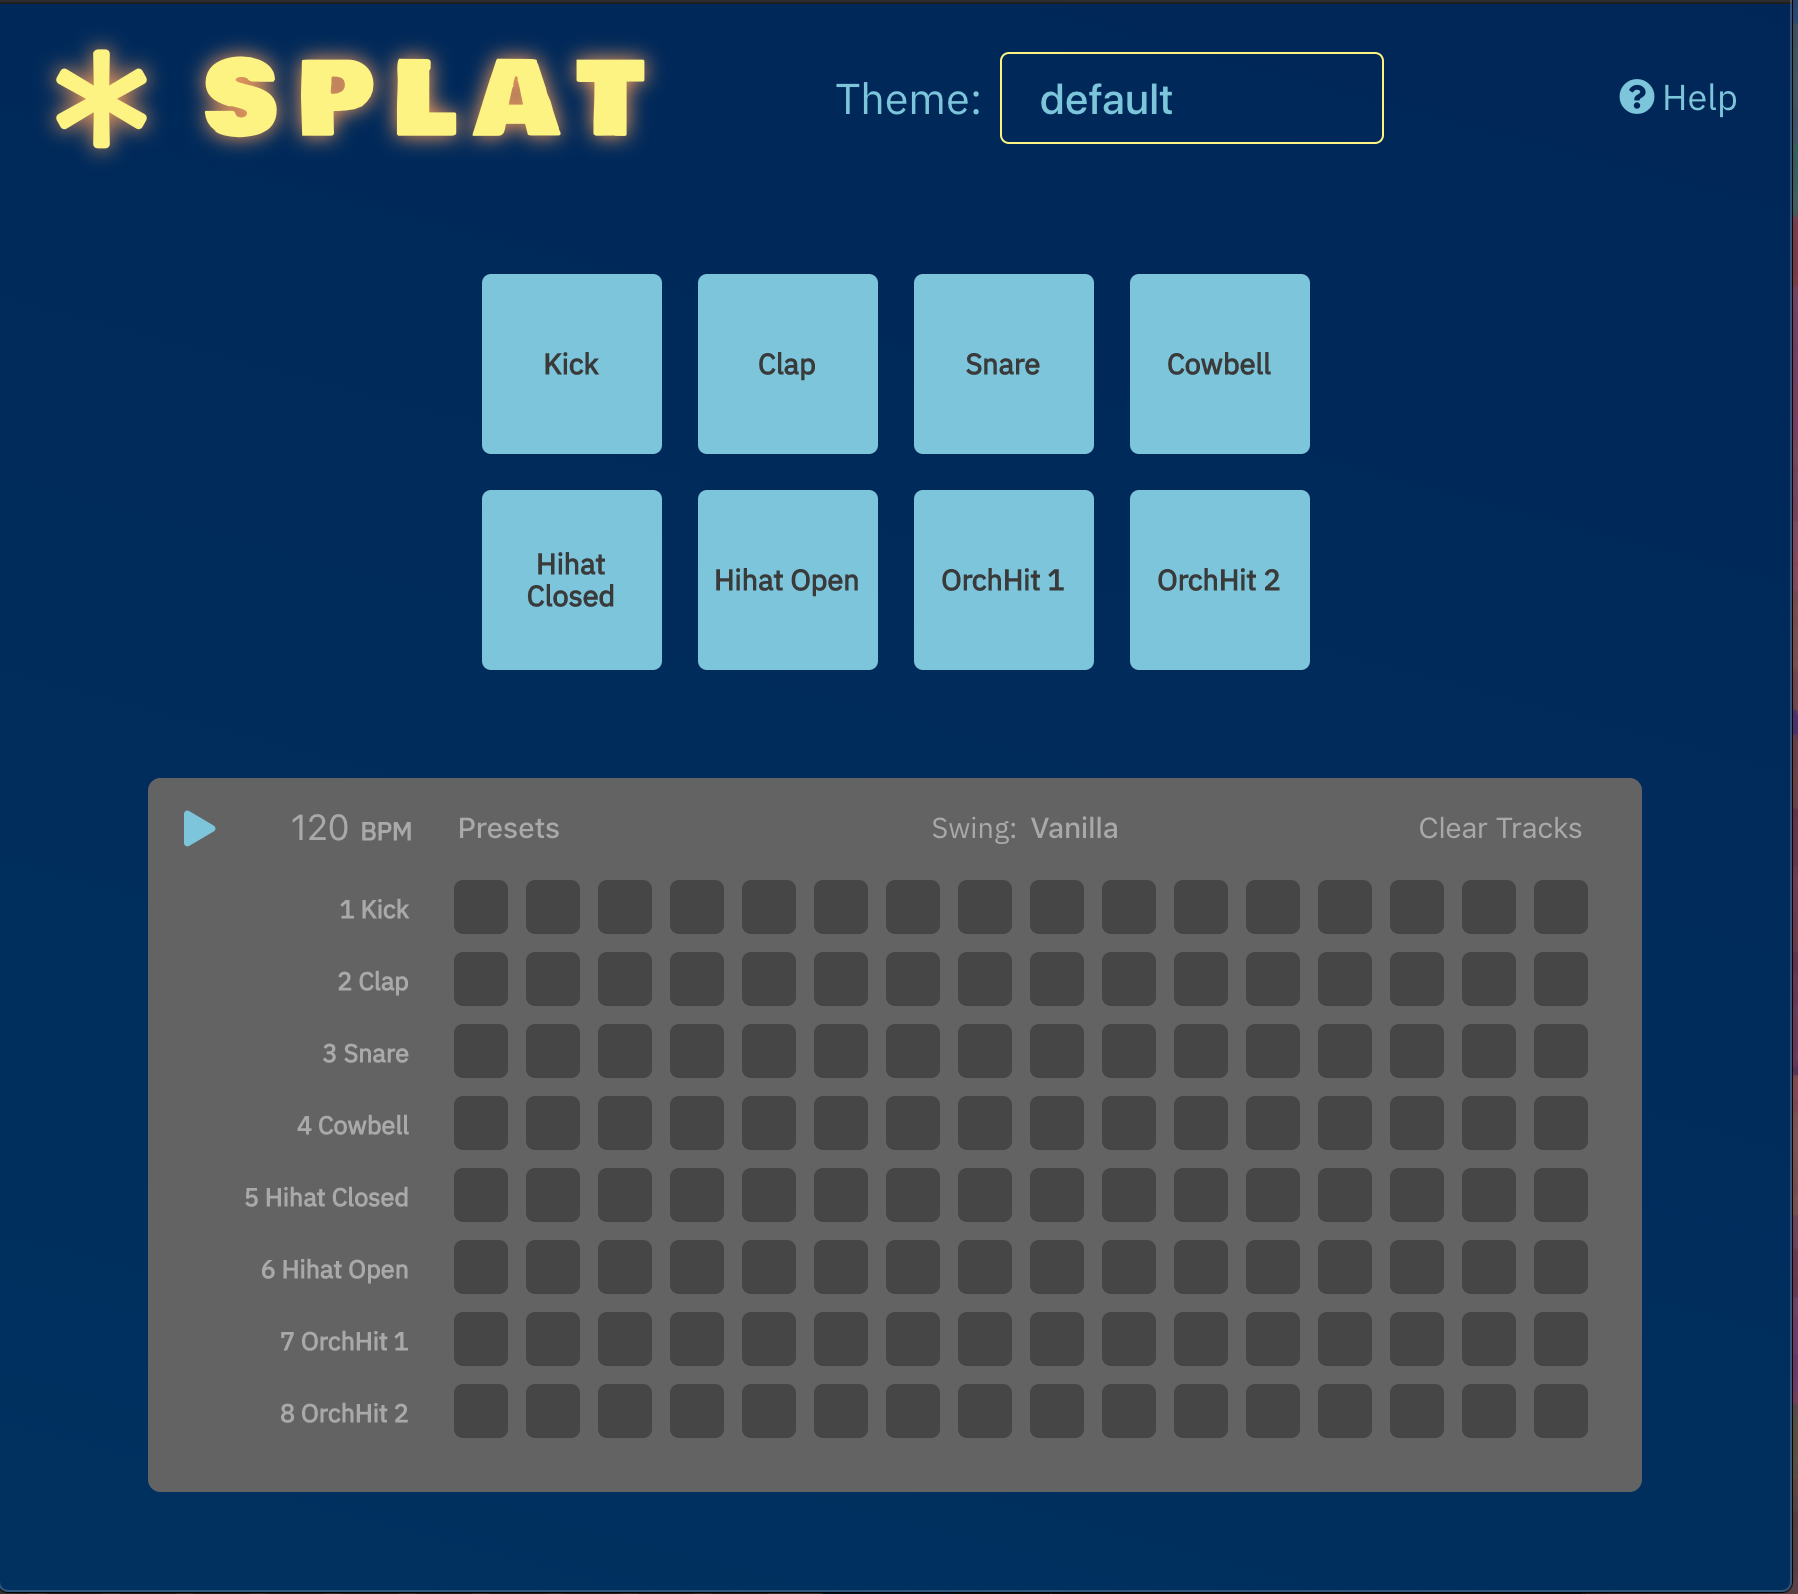
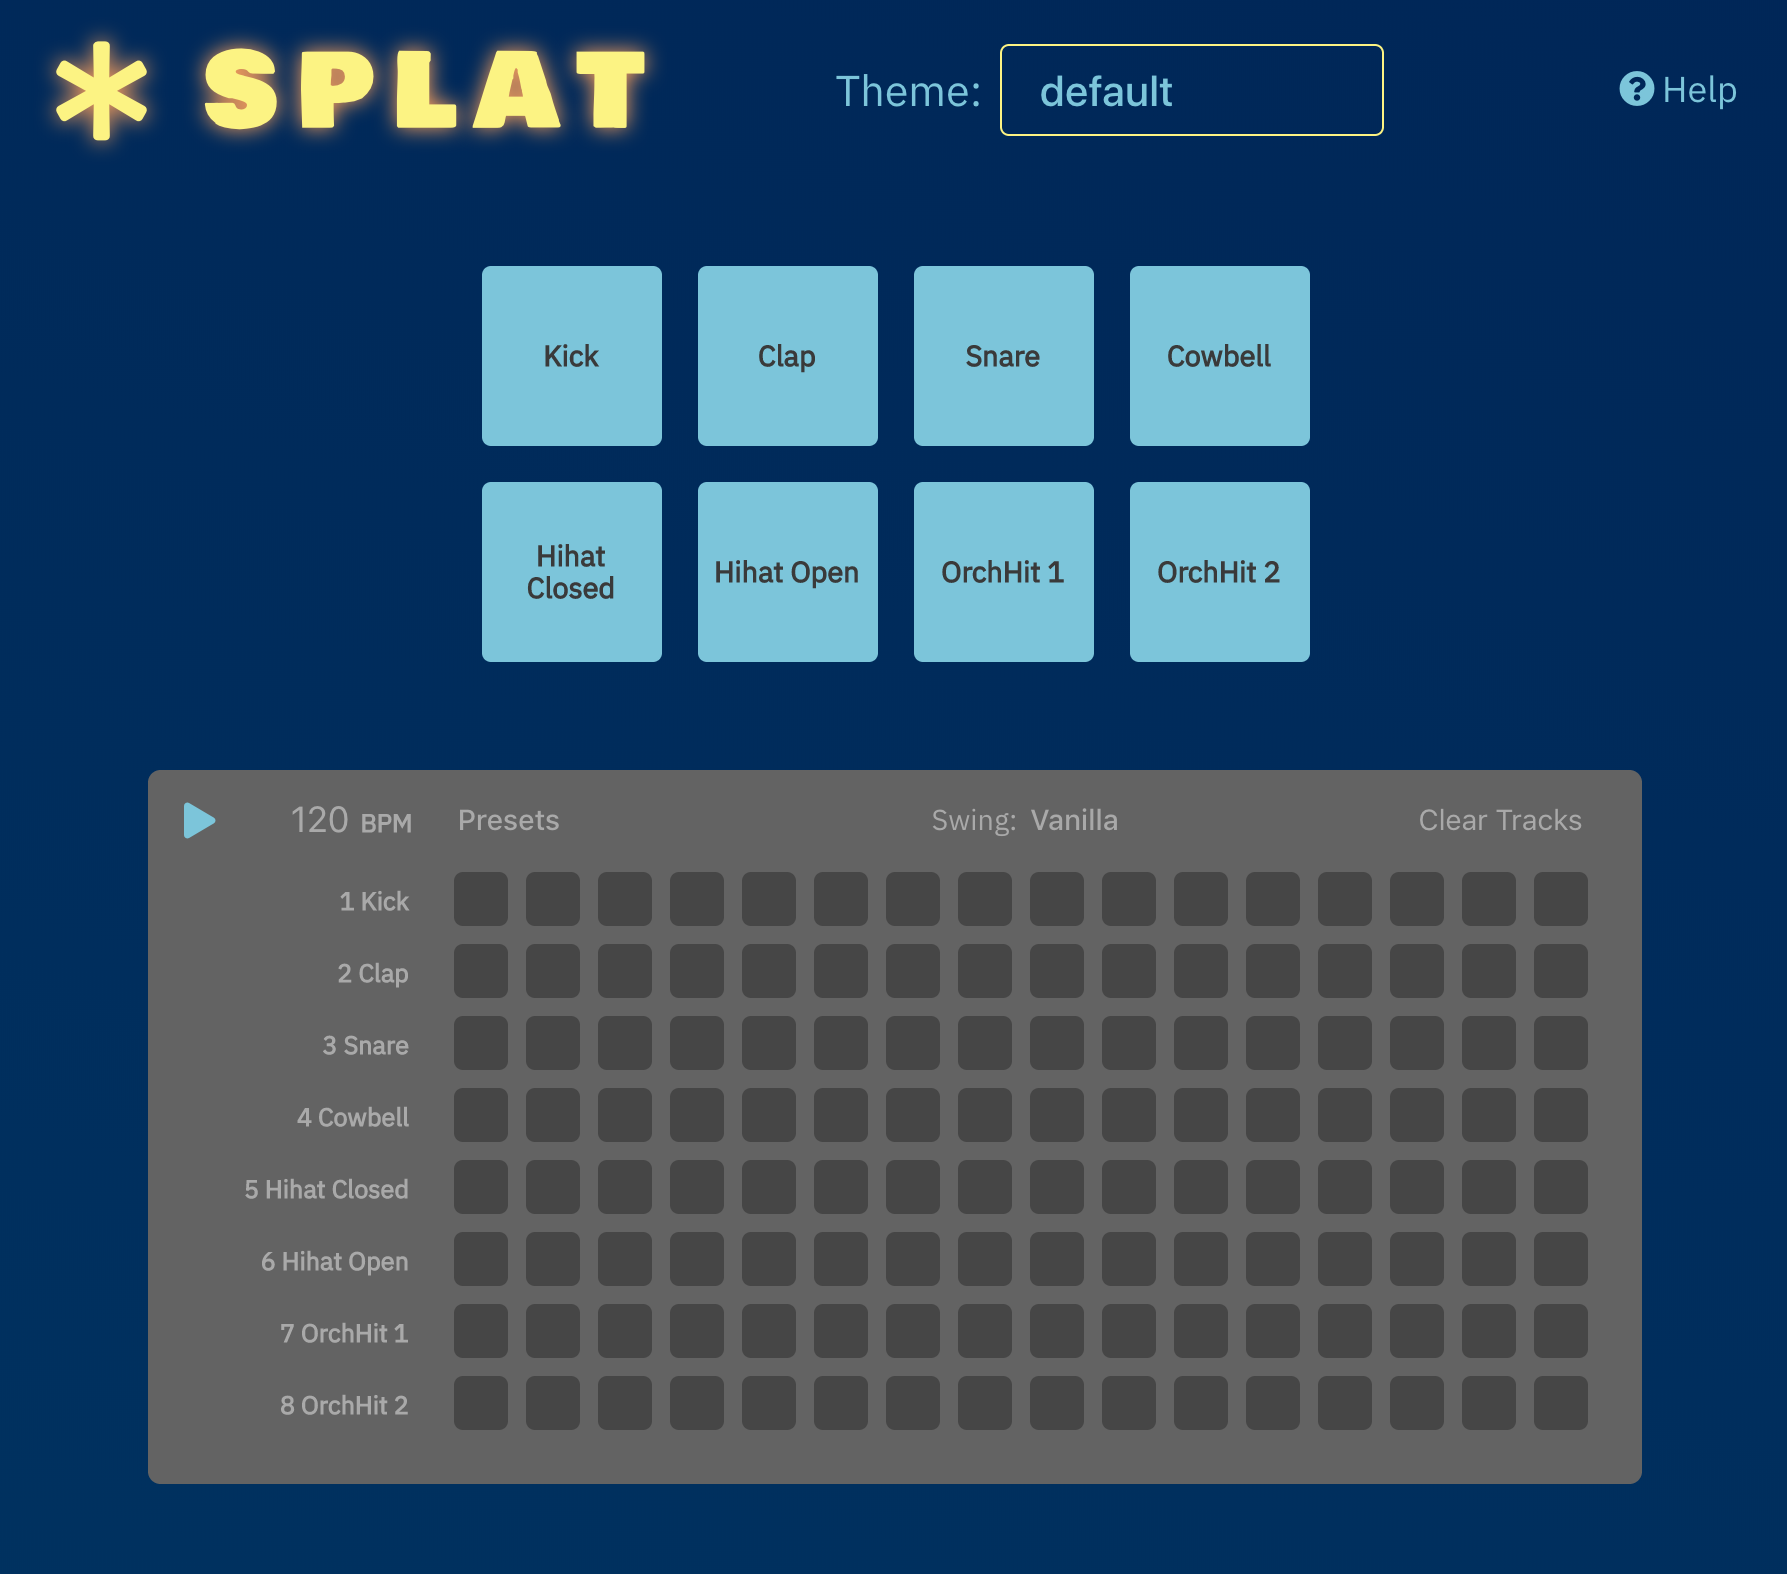
fixed cropping of main_new.png

diff --git a/README.md b/README.md
@@ -8,7 +8,7 @@ Splat features a wide bank of samples, presets, and 8 playback channels.
 
 This project is inspired by classic drum machines like the Roland 808 and by later technologies (we're looking at you Ableton Live) that allow producers to build simple but engaging songs by selecting samples and triggering them in a grid layout.
 
-![main view](https://raw.githubusercontent.com/debevoise/Splat/master/readme_media/main_new.png)
+![main view](readme_media/main_new.png)
 
 ## Samples!
 
@@ -27,7 +27,7 @@ createAudioNodes() {
 }
 ```
 
-![dropdown](https://raw.githubusercontent.com/debevoise/Splat/master/readme_media/theme_picker_new.png)
+![dropdown](readme_media/theme_picker_new.png)
 
 Users can easily change the bank of samples with a `HandleTheme` dropdown menu, which dispatches an Axios call to Splat's API and retrieves the sample information from the Mongo database. That data then gets sent to a Samples Reducer and gets stored in the app's Redux state.  
 
